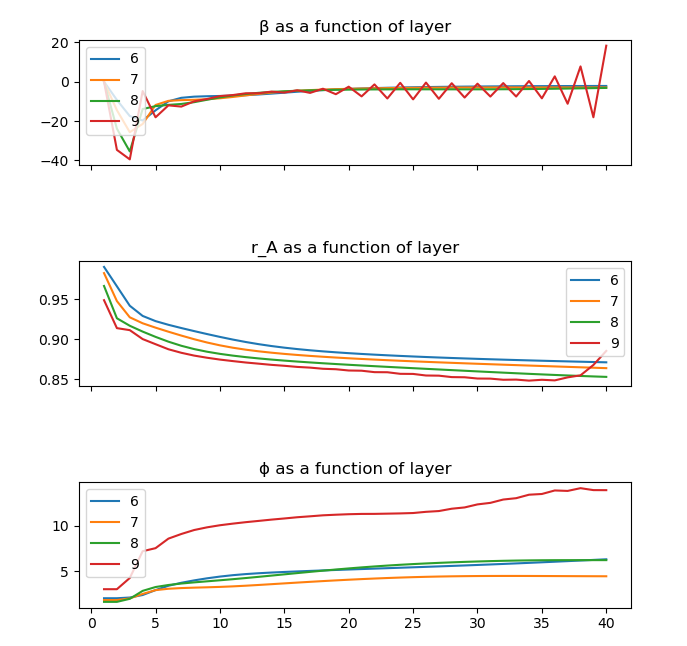
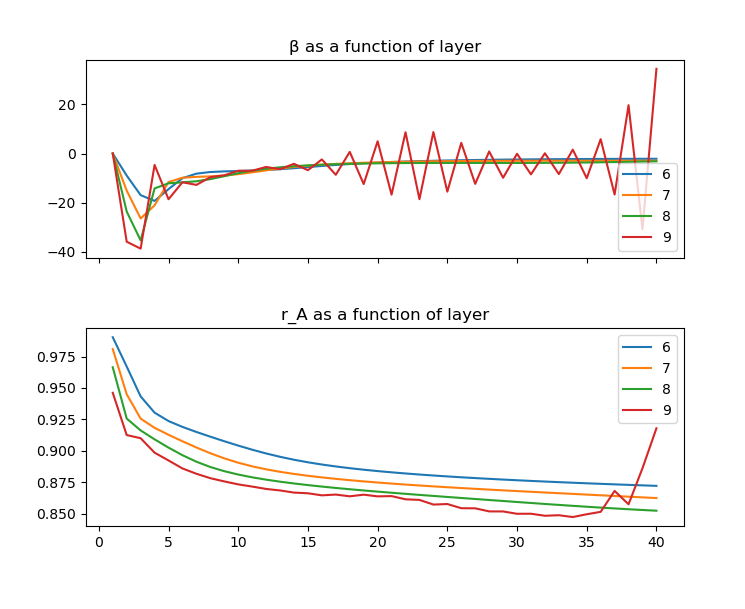
Update falqon.py

diff --git a/demonstrations/tutorial_falqon.py b/demonstrations/tutorial_falqon.py
@@ -335,12 +335,12 @@ nx.draw(graph, with_labels=True, node_color=cmap)
 # `Bron-Kerbosch algorithm <https://en.wikipedia.org/wiki/Bron%E2%80%93Kerbosch_algorithm>`__. To benchmark FALQON,
 # the relative error in the estimated minimum energy
 #
-# .. math:: r_A = \frac{\langle H_C\rangle - \langle H_C\rangle_\text{min}}{|\langle H_C\rangle_\text{min}|},
+# .. math:: r_A = \frac{\langle H_C\rangle - \langle H_C\rangle_\text{min}}{|\langle H_C\rangle_\text{min}|}
 #
 # makes a good figure of merit.
 #
 # Final results for :math:`r_A`, along with :math:`\beta`, are plotted below,
-# with the number of FALQON layers on the horizontal axis. Due to computational constraints, we have averaged over :math:`5` random graphs per node
+# with the number of FALQON layers on the horizontal axis. We have averaged over :math:`50` random graphs per node
 # size, for sizes :math:`n = 6, 7, 8, 9`, with probability :math:`p = 0.1` of keeping an edge. Running FALQON for
 # :math:`40` steps, with :math:`\Delta t = 0.01`, produces:
 #
@@ -348,7 +348,9 @@ nx.draw(graph, with_labels=True, node_color=cmap)
 #     :align: center
 #     :width: 60%
 #
-# The relative error decreases with the number of layers and graph size, except for :math:`n = 9` where the step size has become too large
+# The relative error decreases with the number of layers (as we expect from the construction) and graph size (suggesting the errors grows
+# more slowly than the minimum energy).
+# The exception is :math:`n = 9`, where the step size has become too large
 # and the Trotter-Suzuki decomposition breaks down.
 # The rate of decrease also slows down. Even though the algorithm will converge to the ground state, it won't always get
 # there in few time steps!
